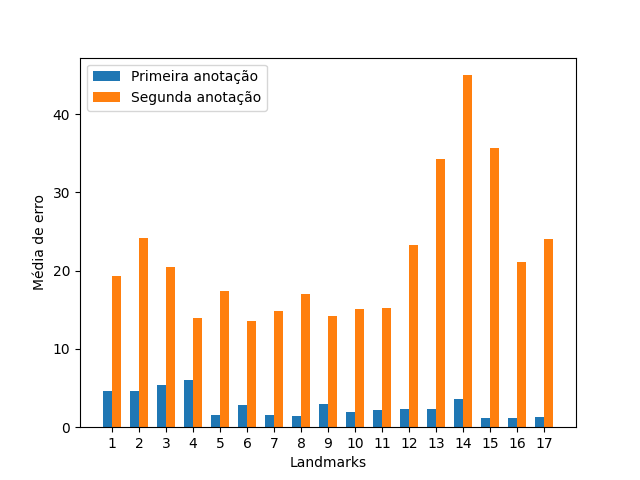
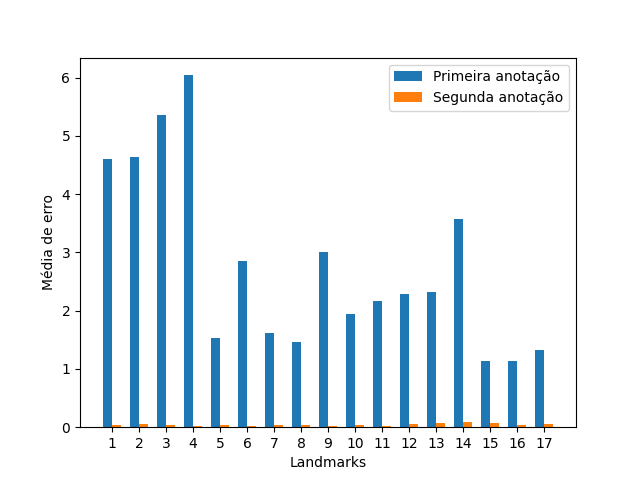
fixes

diff --git a/src/gets_via_dist.py b/src/gets_via_dist.py
@@ -89,6 +89,7 @@ horizontal_point_b = 18
 def get_euclidean_results(mlkit_pts, vertical_distance=1, horizontal_distance=1):
     all_distances = {} 
 
+    
     # vertical_distance = calc_euclidean_distance(ground_truth_pts[vertical_point_a][0], ground_truth_pts[vertical_point_a][1],
     #                                           ground_truth_pts[vertical_point_b][0], ground_truth_pts[vertical_point_b][1])
     # horizontal_distance = calc_euclidean_distance(ground_truth_pts[horizontal_point_a][0], ground_truth_pts[horizontal_point_a][1],
@@ -98,12 +99,14 @@ def get_euclidean_results(mlkit_pts, vertical_distance=1, horizontal_distance=1)
 
     for i, img_key in enumerate(ground_truth_pts, start=0):
             try:
+                image = cv2.imread(f"./via_image/{img_key[29:].replace('_copy', '')}")
+                height, width, _ = image.shape
                 img_mlkit_pts = mlkit_pts[img_key]
                 img_dists = []
                 for j, mlkit_point in enumerate(img_mlkit_pts, start=0):
                     gt_point = ground_truth_pts[img_key][j]
                     distance = calc_euclidean_distance(gt_point[0], gt_point[1],
-                            mlkit_point[0], mlkit_point[1])    
+                            mlkit_point[0], mlkit_point[1], height, width)    
                     # Dividindo pela área da imagem para normalizar e multiplicando por 1000 para evitar números muito pequenos
                     img_dists.append(distance)
                 all_distances[img_key] = img_dists
@@ -134,13 +137,9 @@ def compare_copy():
     return all_distances
 
 def compare_all_copy(all_distances_copy):
-    #first_notes = [round((x + y)/2, 2) for x, y in zip(all_distances_copy[0], all_distances_copy[2])]
-    #rep_notes = [round((x + y)/2, 2) for x, y in zip(all_distances_copy[1], all_distances_copy[3])]
     copy_means = [round((x + y)/2, 2) for x, y in zip(all_distances_copy[0], all_distances_copy[1])]
-    #print(first_notes)
-    #print(rep_notes)
-    teste = get_euclidean_results(all_mlkit_points)
-    mlkit_means = [fmean(valores) for valores in zip(*teste.values())]
+    mlkit_distances = get_euclidean_results(all_mlkit_points)
+    mlkit_means = [fmean(valores) for valores in zip(*mlkit_distances.values())]
     print_bar(copy_means, mlkit_means)
 
 def compare_bb(all_mlkit_points):
@@ -163,7 +162,7 @@ def compare_bb(all_mlkit_points):
 
 all_mlkit_points = {'http://localhost:8080/Images/[email redacted]-maria_luiza-21-5-2026_1.png': [(240.0, 433.0), (175.0, 471.0), (124.0, 491.0), (72.0, 490.0), (48.0, 425.0), (85.0, 416.0), (51.0, 399.0), (42.0, 382.0), (75.0, 362.0), (27.0, 339.0), (77.0, 257.0), (93.0, 224.0), (142.0, 226.0), (191.0, 252.0), (131.0, 276.0), (155.0, 282.0), (127.0, 286.0)], 'http://localhost:8080/Images/[email redacted]-maria_luiza-21-5-2026_3.png': [(298.0, 405.0), (350.0, 440.0), (393.0, 455.0), (440.0, 451.0), (454.0, 392.0), (420.0, 384.0), (452.0, 369.0), (458.0, 354.0), (432.0, 332.0), (472.0, 311.0), (432.0, 231.0), (415.0, 202.0), (376.0, 208.0), (338.0, 234.0), (385.0, 250.0), (367.0, 260.0), (390.0, 263.0)], 'http://localhost:8080/Images/[email redacted]-gabriel_de_castro_michelassi-13-5-2026_1.png': [(266, 537),(196, 589),(139, 610),(79, 606),(57, 511),(102, 506),(60, 491),(52, 472),(89, 445),(39, 419),(89, 322),(106, 283),(154, 279),(206, 305),(145, 332),(169, 343),(141, 349)], 'http://localhost:8080/Images/[email redacted]-gabriel_de_castro_michelassi-13-5-2026_2.png': [(230, 414), (284, 456), (333, 478), (394, 481), (410, 416),(413, 373),(407, 390),(362, 403),(379, 349),(427, 330),(391, 260),(369, 236),(319, 235),(272, 252),(305, 280),(329, 275),(333, 282)], 'http://localhost:8080/Images/[email redacted]-renato_alexey-13-5-2026_2.png': [(192.0, 386.0), (130.0, 414.0), (80.0, 423.0), (32.0, 414.0), (27.0, 350.0), (69.0, 351.0), (33.0, 338.0), (28.0, 325.0), (58.0, 309.0), (18.0, 288.0), (70.0, 231.0), (86.0, 208.0), (122.0, 210.0), (161.0, 231.0), (112.0, 244.0), (129.0, 252.0), (108.0, 253.0)], 'http://localhost:8080/Images/[email redacted]-renato_alexey-13-5-2026_4.png': [(240.0, 336.0), (289.0, 366.0), (329.0, 379.0), (371.0, 376.0), (382.0, 322.0), (348.0, 318.0), (380.0, 307.0), (385.0, 295.0), (360.0, 277.0), (396.0, 259.0), (361.0, 202.0), (351.0, 180.0), (315.0, 181.0), (278.0, 200.0), (321.0, 213.0), (303.0, 219.0), (325.0, 222.0)], 'http://localhost:8080/Images/[email redacted]-danilo-11-5-2026_2.png': [(232, 475),(163, 499),(110, 503),(57, 487),(48, 418),(92, 423),(55, 398),(50, 380),(86, 368),(42, 334),(105, 260),(130, 232),(176, 249),(219, 287),(158, 293),(178, 307),(151, 302)], 'http://localhost:8080/Images/[email redacted]-danilo-11-5-2026_1.png': [(295.0, 438.0), (368.0, 465.0), (424.0, 470.0), (482.0, 452.0), (493.0, 378.0), (444.0, 383.0), (490.0, 357.0), (495.0, 338.0), (458.0, 319.0), (508.0, 282.0), (442.0, 206.0), (416.0, 176.0), (368.0, 193.0), (324.0, 233.0), (385.0, 240.0), (364.0, 255.0), (394.0, 251.0)], 'http://localhost:8080/Images/[email redacted]-sarah_-14-5-2026.png': [(156.0, 326.0), (112.0, 342.0), (78.0, 346.0), (41.0, 335.0), (37.0, 299.0), (69.0, 301.0), (43.0, 285.0), (41.0, 274.0), (67.0, 268.0), (39.0, 249.0), (84.0, 201.0), (106.0, 186.0), (138.0, 198.0), (161.0, 221.0), (121.0, 223.0), (133.0, 233.0), (113.0, 230.0)], 'http://localhost:8080/Images/[email redacted]-sarah_-14-5-2026_4.png': [(170.0, 265.0), (212.0, 286.0), (245.0, 293.0), (278.0, 287.0), (285.0, 247.0), (254.0, 244.0), (280.0, 232.0), (284.0, 222.0), (263.0, 211.0), (291.0, 195.0), (258.0, 146.0), (245.0, 126.0), (217.0, 130.0), (191.0, 149.0), (226.0, 160.0), (213.0, 167.0), (231.0, 167.0)], 'http://localhost:8080/Images/[email redacted]-renato_alexey-13-5-2026_2_copy.png': [(192.0, 386.0), (130.0, 414.0), (80.0, 423.0), (32.0, 414.0), (27.0, 350.0), (69.0, 351.0), (33.0, 338.0), (28.0, 325.0), (58.0, 309.0), (18.0, 288.0), (70.0, 231.0), (86.0, 208.0), (122.0, 210.0), (161.0, 231.0), (112.0, 244.0), (129.0, 252.0), (108.0, 253.0)], 'http://localhost:8080/Images/[email redacted]-renato_alexey-13-5-2026_4_copy.png': [(240.0, 336.0), (289.0, 366.0), (329.0, 379.0), (371.0, 376.0), (382.0, 322.0), (348.0, 318.0), (380.0, 307.0), (385.0, 295.0), (360.0, 277.0), (396.0, 259.0), (361.0, 202.0), (351.0, 180.0), (315.0, 181.0), (278.0, 200.0), (321.0, 213.0), (303.0, 219.0), (325.0, 222.0)]}
 
-#pritn_boxplot(get_euclidean_results(all_mlkit_points))
-compare_all_copy(compare_copy())
+pritn_boxplot(get_euclidean_results(all_mlkit_points))
+#compare_all_copy(compare_copy())
 #compare_bb(all_mlkit_points)
 #compare_copy(all_mlkit_points)